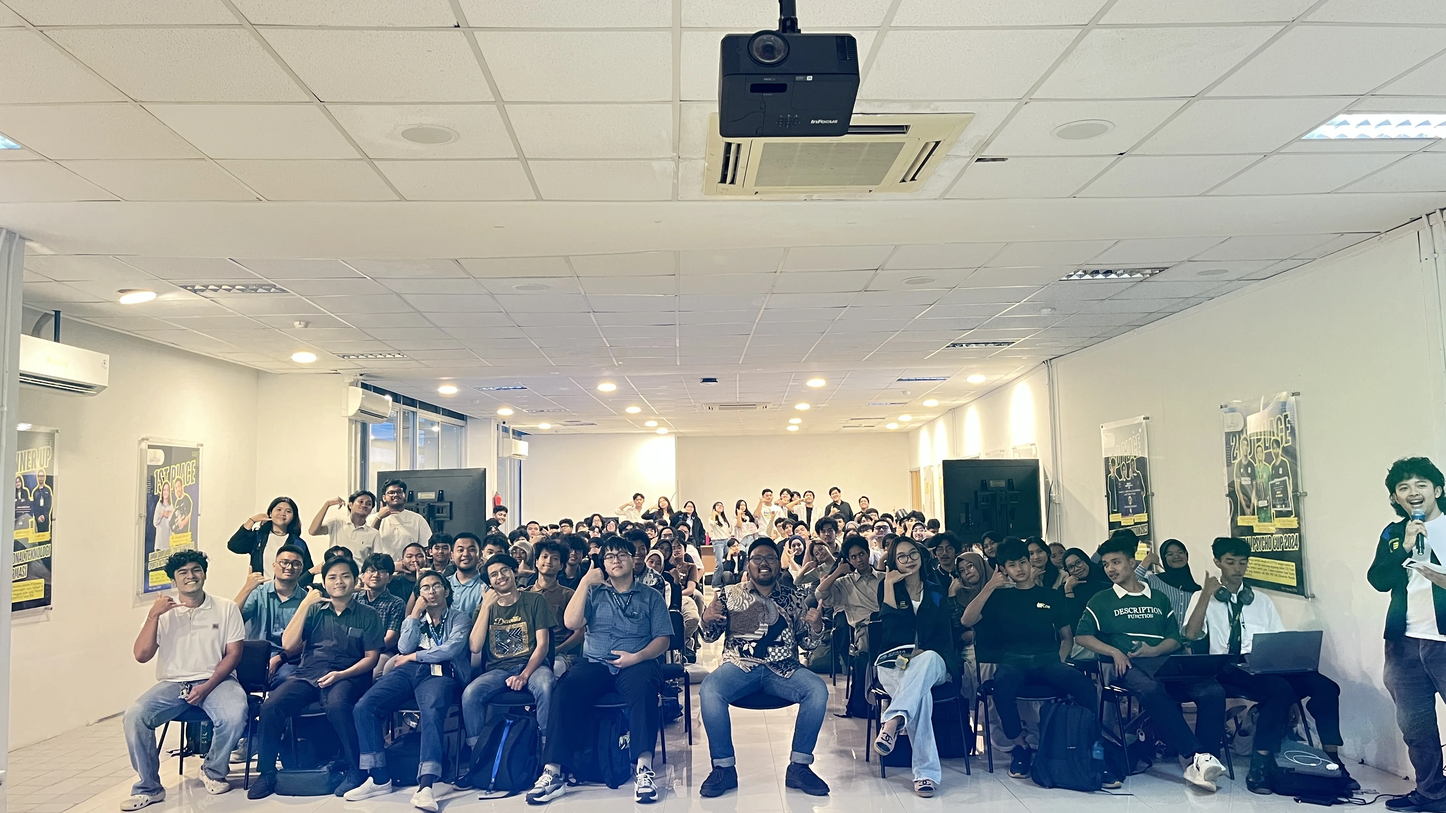
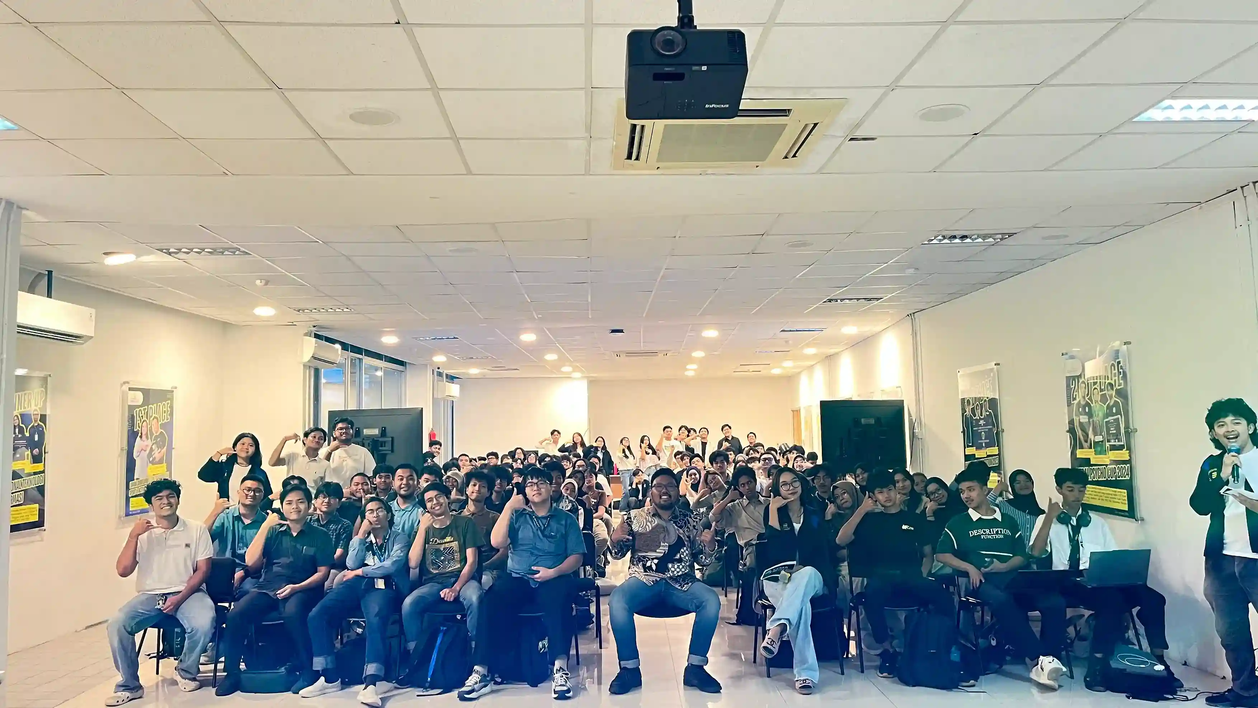
fixed performance, compressed images

diff --git a/app/recruitment/data.ts b/app/recruitment/data.ts
@@ -37,7 +37,7 @@ export const divisi: Divisi[] = [
     addedValues: ["Academic Skill", "Professional Networking"],
     logoDark: "/akproDark.webp",
     logoLight: "/akproLight.webp",
-    tugasUrl: "",
+    tugasUrl: "https://drive.google.com/drive/folders/1TrGwnfBgHg0ShxodbGTqSGMv4MowoNWr",
   },
   {
     id: 2,
@@ -49,7 +49,7 @@ export const divisi: Divisi[] = [
     addedValues: ["Copywriting", "Issue Analysis"],
     logoDark: "/kastratDark.webp",
     logoLight: "/kastratLight.webp",
-    tugasUrl: "",
+    tugasUrl: "https://drive.google.com/drive/folders/1-T4b-zOoXCqHg2LvkzNPwo75zI-NckXx",
   },
   {
     id: 3,
@@ -61,7 +61,7 @@ export const divisi: Divisi[] = [
     addedValues: ["People Management", "Critical Thinking"],
     logoDark: "/kemaDark.webp",
     logoLight: "/kemaLight.webp",
-    tugasUrl: "",
+    tugasUrl: "https://drive.google.com/drive/folders/1v3rUSy6eD2spY-SDRZC-PkpuWz1eOscr",
   },
   {
     id: 4,
@@ -73,7 +73,7 @@ export const divisi: Divisi[] = [
     addedValues: ["Mental health Awareness", "Advocating Student Needs"],
     logoDark: "/kesmaDark.webp",
     logoLight: "/kesmaLight.webp",
-    tugasUrl: "",
+    tugasUrl: "https://drive.google.com/drive/folders/1JetjJpymaCJCdp89OyVEBJLH9dC_9QJb",
   },
   {
     id: 5,
@@ -85,7 +85,7 @@ export const divisi: Divisi[] = [
     addedValues: ["Copywriting", "Administrasi"],
     logoDark: "/kestariDark.webp",
     logoLight: "/kestariLight.webp",
-    tugasUrl: "",
+    tugasUrl: "https://drive.google.com/drive/folders/1t4QP1xB-IQCQYMeM0p4f1eMK4Ik_CQ35",
   },
   {
     id: 6,
@@ -97,7 +97,7 @@ export const divisi: Divisi[] = [
     addedValues: ["Graphic Design", "Relasi dengan Alumni"],
     logoDark: "/kominDark.webp",
     logoLight: "/kominLight.webp",
-    tugasUrl: "",
+    tugasUrl: "https://drive.google.com/drive/folders/1Hi-f8E0clGLqabfwh13CAgBfCJiJidi0",
   },
   {
     id: 7,
@@ -109,7 +109,7 @@ export const divisi: Divisi[] = [
     addedValues: ["Consulting", "Structured Problem Solving"],
     logoDark: "/litbangDark.webp",
     logoLight: "/litbangLight.webp",
-    tugasUrl: "",
+    tugasUrl: "https://drive.google.com/drive/folders/1yCgFc-QgIr_yoJVuIqfVu8Ew6sCvwohT",
   },
   {
     id: 8,
@@ -121,7 +121,7 @@ export const divisi: Divisi[] = [
     addedValues: ["Environmental Awareness", "Communication"],
     logoDark: "/pengmasDark.webp",
     logoLight: "/pengmasLight.webp",
-    tugasUrl: "",
+    tugasUrl: "https://drive.google.com/drive/folders/1-FcIe95CIsJ-IrTsA3IL5xICvJlEyv5T",
   },
   {
     id: 9,
@@ -133,7 +133,7 @@ export const divisi: Divisi[] = [
     addedValues: ["Project management", "Communication"],
     logoDark: "/piptekDark.webp",
     logoLight: "/piptekLight.webp",
-    tugasUrl: "",
+    tugasUrl: "https://drive.google.com/drive/folders/12KIjqRytVVJhTRp72ymRcvjjoW2op8Cw",
   },
   {
     id: 10,
@@ -145,7 +145,7 @@ export const divisi: Divisi[] = [
     addedValues: ["leadership", "Critical Thinking"],
     logoDark: "/retroDark.webp",
     logoLight: "/retroLight.webp",
-    tugasUrl: "",
+    tugasUrl: "https://drive.google.com/drive/folders/1EDDlWILzghECa9gf7zQ5DtFySjH7b3Qp",
   },
   {
     id: 11,
@@ -157,7 +157,7 @@ export const divisi: Divisi[] = [
     addedValues: ["Project Management", "Talent Management"],
     logoDark: "/siwaDark.webp",
     logoLight: "/siwaLight.webp",
-    tugasUrl: "",
+    tugasUrl: "https://drive.google.com/drive/folders/1IjTTU3DzlxY7E5MxZX0sTjr3qZwX3WoW",
   },
   {
     id: 12,
@@ -169,7 +169,7 @@ export const divisi: Divisi[] = [
     addedValues: ["Financial Management", "Entrepreneurship"],
     logoDark: "/wirusDark.webp",
     logoLight: "/wirusLight.webp",
-    tugasUrl: "",
+    tugasUrl: "https://drive.google.com/drive/folders/1HN_q-dkDWc502y7yWB78_CqZw3odkvcM",
   },
 ];
 

diff --git a/app/recruitment/sections/gallery-section.tsx b/app/recruitment/sections/gallery-section.tsx
@@ -6,7 +6,6 @@ import { Badge } from "@/components/ui/badge";
 import { motion } from "motion/react";
 import { gallery } from "../data";
 
-// Memoized card component with image and hover overlay
 const MarqueeCard = memo(function MarqueeCard({
   item,
 }: {
@@ -14,15 +13,14 @@ const MarqueeCard = memo(function MarqueeCard({
 }) {
   return (
     <div className="relative w-64 sm:w-80 h-48 sm:h-56 shrink-0 rounded-2xl overflow-hidden group cursor-pointer">
-      {/* Background Image */}
       <Image
         src={item.image}
         alt={item.title}
         fill
+        loading="lazy"
         sizes="(max-width: 640px) 256px, 320px"
         className="object-cover transition-transform duration-300 group-hover:scale-105"
       />
-      {/* Hover Overlay */}
       <div className="absolute inset-0 bg-black/0 group-hover:bg-black/50 transition-all duration-300 flex items-center justify-center">
         <span className="text-white font-semibold text-lg opacity-0 group-hover:opacity-100 transition-opacity duration-300 text-center px-4">
           {item.title}
@@ -66,7 +64,6 @@ export const GallerySection = memo(function GallerySection() {
         </motion.div>
       </div>
 
-      {/* Desktop View - CSS animation */}
       <div className="hidden md:block relative">
         <div className="flex gap-4 animate-marquee-desktop w-max">
           {duplicatedGallery.map((item, index) => (
@@ -75,7 +72,6 @@ export const GallerySection = memo(function GallerySection() {
         </div>
       </div>
 
-      {/* Mobile View - CSS animations */}
       <div className="md:hidden space-y-4">
         <div className="relative overflow-hidden">
           <div className="flex gap-4 animate-marquee pause-on-hover w-max">

diff --git a/app/recruitment/sections/divisi-section.tsx b/app/recruitment/sections/divisi-section.tsx
@@ -34,6 +34,7 @@ const DivisiCard = memo(function DivisiCard({
           alt={div.abbr}
           width={56}
           height={56}
+          loading="lazy"
           className="hidden dark:block object-contain w-full h-full"
         />
         <Image
@@ -41,6 +42,7 @@ const DivisiCard = memo(function DivisiCard({
           alt={div.abbr}
           width={56}
           height={56}
+          loading="lazy"
           className="block dark:hidden object-contain w-full h-full"
         />
       </div>
@@ -139,6 +141,7 @@ export const DivisiSection = memo(function DivisiSection() {
                         alt={selectedDivisi.abbr}
                         width={80}
                         height={80}
+                        loading="eager"
                         className="hidden dark:block object-contain w-full h-full p-2"
                       />
                       <Image
@@ -146,6 +149,7 @@ export const DivisiSection = memo(function DivisiSection() {
                         alt={selectedDivisi.abbr}
                         width={80}
                         height={80}
+                        loading="eager"
                         className="block dark:hidden object-contain w-full h-full p-2"
                       />
                     </div>

diff --git a/app/recruitment/sections/logo-showcase.tsx b/app/recruitment/sections/logo-showcase.tsx
@@ -21,6 +21,7 @@ export const LogoShowcase = memo(function LogoShowcase() {
                   alt={div.abbr}
                   width={96}
                   height={96}
+                  loading="lazy"
                   className="hidden dark:block object-contain w-full h-full opacity-60 group-hover:opacity-100 transition-opacity duration-300"
                 />
                 <Image
@@ -28,6 +29,7 @@ export const LogoShowcase = memo(function LogoShowcase() {
                   alt={div.abbr}
                   width={96}
                   height={96}
+                  loading="lazy"
                   className="block dark:hidden object-contain w-full h-full opacity-60 group-hover:opacity-100 transition-opacity duration-300"
                 />
               </div>
